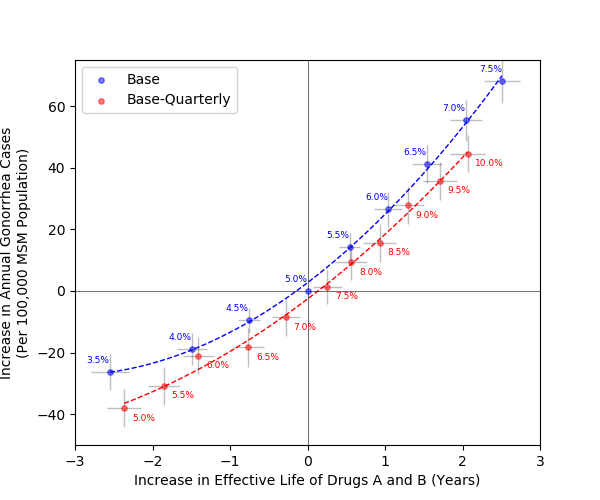
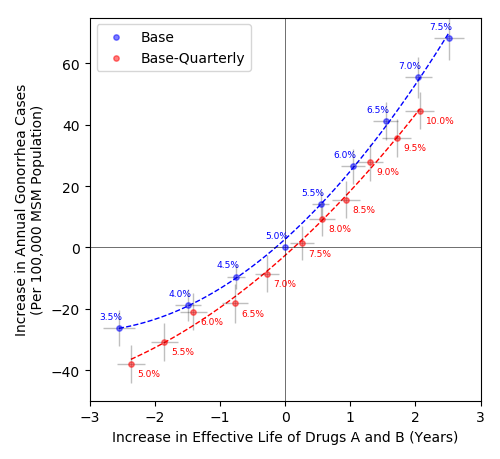
fixing figure labels

diff --git a/apace/ScenariosClasses.py b/apace/ScenariosClasses.py
@@ -456,7 +456,9 @@ def plot_series(series, x_label, y_label, file_name,
                 show_error_bars=False,
                 wtp_multiplier=1):
 
-    fig, ax = plt.subplots(1, 1, figsize=(6, 5))
+    # fig, ax = plt.subplots(1, 1, figsize=(6, 5))
+    fig = plt.figure(figsize=(5, 4.6))
+    ax = fig.add_subplot(111)
 
     for i, ser in enumerate(series):
 
@@ -531,15 +533,17 @@ def plot_series(series, x_label, y_label, file_name,
                 ax.fill_between(xs, iv_l, iv_u, linewidth=1, color=ser.color, alpha=0.05)
 
     # labels and legend
-    plt.xlabel(x_label)
-    plt.ylabel(y_label)
+    ax.set_xlabel(x_label)
+    ax.set_ylabel(y_label)
     plt.legend(loc=2)
 
     # x and y ranges
     if x_range is not None:
-        plt.xlim(x_range)
+        ax.set_xlim(x_range)
     if y_range is not None:
-        plt.ylim(y_range)
+        ax.set_ylim(y_range)
+
+    plt.tight_layout()
 
     # origin
     plt.axvline(x=0, linestyle='-', color='black', linewidth=0.4)

diff --git a/apace/Test Figs.py b/apace/Test Figs.py
@@ -1,0 +1,11 @@
+import matplotlib.pyplot as plt
+import numpy as np
+
+fig = plt.figure(figsize=(4,4))
+ax = fig.add_subplot(111)
+x = np.linspace(-20,20, 1000)
+line_cosh, = ax.plot(x, x**3)
+line_quad, = ax.plot(x, x**2/2)
+ax.set_xlabel('test')
+ax.set_ylabel('test')
+plt.show()
